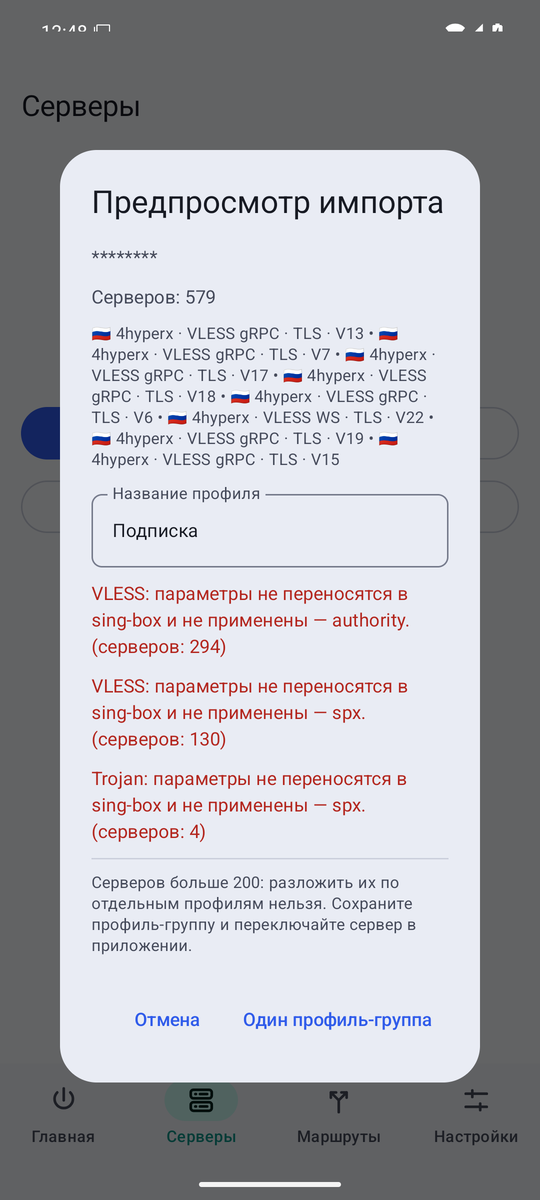
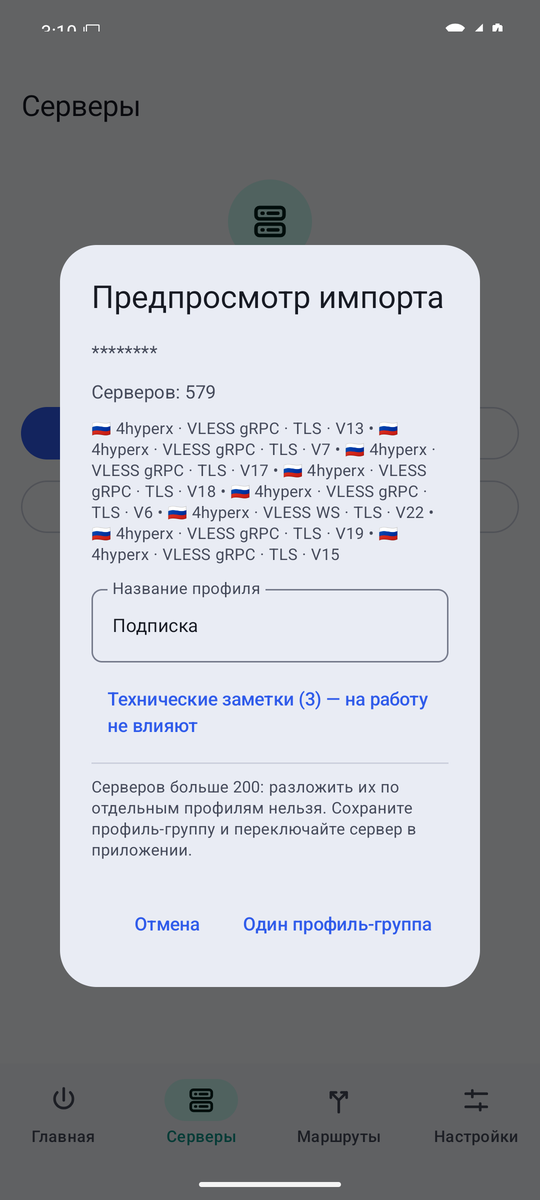
Гайд Android под ZapretKVN 0.5.5: «Буфер» с адресом подписки, технические заметки, новые приложения в VPN сами, подписка обновляется раз в сутки

Changed region(s): [[0.0889, 0.1233, 0.8889, 0.925], [0.0889, 0.0, 0.1778, 0.0308], [0.8, 0.5242, 0.8296, 0.555]]

diff --git a/Zapret/premium.md b/Zapret/premium.md
@@ -102,7 +102,7 @@ description: "Гайд для новичка по Zapret VPN: навигация
 - **Код из Zapret GUI для VPN не нужен.** Он только для оформления программы Zapret GUI на Windows и делается по желанию, после покупки тарифа.
 - **Какой тариф брать:** по умолчанию 💎 Vless MAX (199 ₽ в месяц) — 15 серверов и все прокси для Telegram. Подешевле — ⚡ MasterVless (99 ₽), самый полный — 👑 Vless ULTRA (249 ₽). Попробовать — MasterVless на 1 день за 9 ₽.
 - **Приложение:** Android и Windows — ZapretKVN и Xray-подписка; iPhone и Mac — Clash Mi или Clash Verge Rev и Mihomo-подписка.
-- **Бот нужен в начале и при продлении.** Новые серверы приходят по той же ссылке, когда приложение обновляет подписку (в ZapretKVN — кнопкой «Обновить (без кэша)»).
+- **Бот нужен в начале и при продлении.** Новые серверы приходят по той же ссылке, когда приложение обновляет подписку (ZapretKVN с версии 0.5.5 делает это сам раз в сутки).
 - **Для игр** добавьте Hysteria 2-подписку. **Если ничего не подключается** — AWG 3.0 в AmneziaVPN 5.0.0.5 или новее.
 - **Для Telegram** — наш клиент [ZaStoGram](https://t.me/zastogram): обходит блокировку сам, даже без VPN.
 
@@ -257,7 +257,7 @@ flowchart LR
 
 ### Готово. Что дальше
 
-- **В бот заходить не нужно** до конца подписки. Подписка — это ссылка на список ваших серверов, а не сами серверы: появился новый сервер или сменился адрес старого — приложение узнает об этом при обновлении подписки. Многие приложения обновляют её сами; в ZapretKVN для Android — вручную: «Серверы» → «Сменить» → «⋮» → «Обновить (без кэша)».
+- **В бот заходить не нужно** до конца подписки. Подписка — это ссылка на список ваших серверов, а не сами серверы: появился новый сервер или сменился адрес старого — приложение узнает об этом при обновлении подписки. Многие приложения обновляют её сами; ZapretKVN для Android — раз в сутки с версии 0.5.5, а вручную — «Серверы» → «Сменить» → «⋮» → «Обновить (без кэша)».
 - **Продлить** — пополнить баланс и включить автопродление или купить срок заново; ссылка остаётся той же. Подробно — в [[#Продление, повышение, возврат|продлении]].
 - **Новый телефон или потерялась ссылка.** Подписка живёт в вашем аккаунте бота, а не в приложении. На новом устройстве нажмите «🚀 Подключить устройство» и добавьте ту же подписку заново. Привязки к железу нет, старое устройство отключать не обязательно.
 - **Ссылка попала в чужие руки** — «⋯ Ещё» → «♻ Сменить ссылку», затем обновите её во всех своих приложениях.
